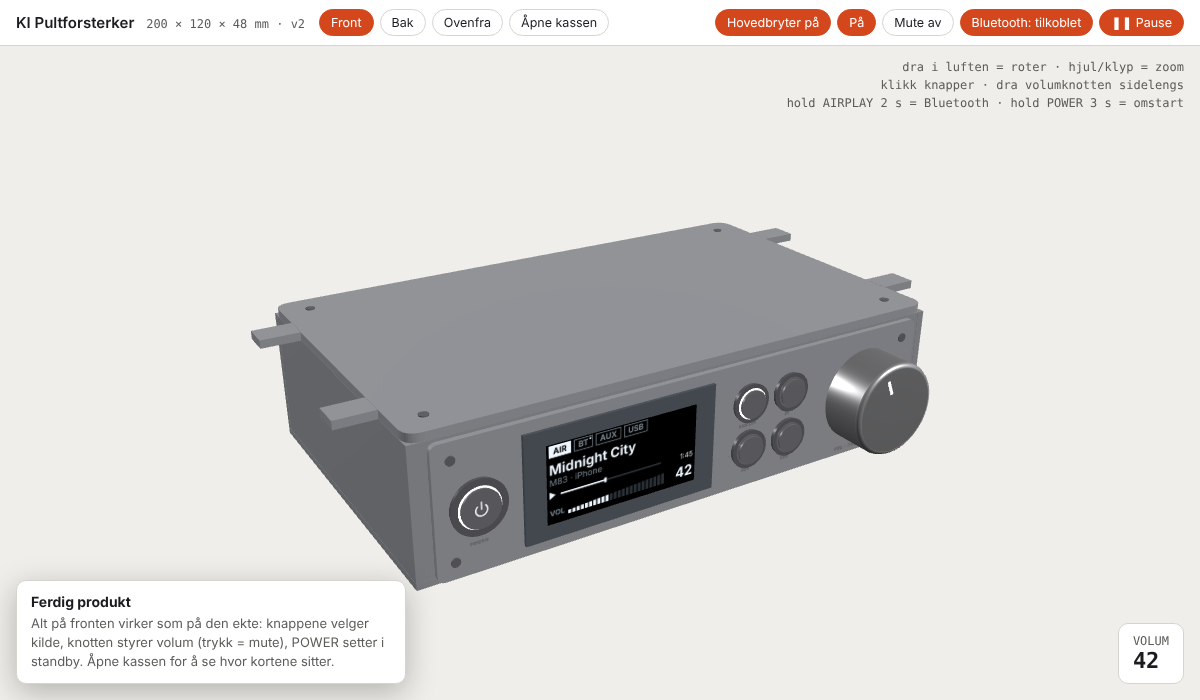
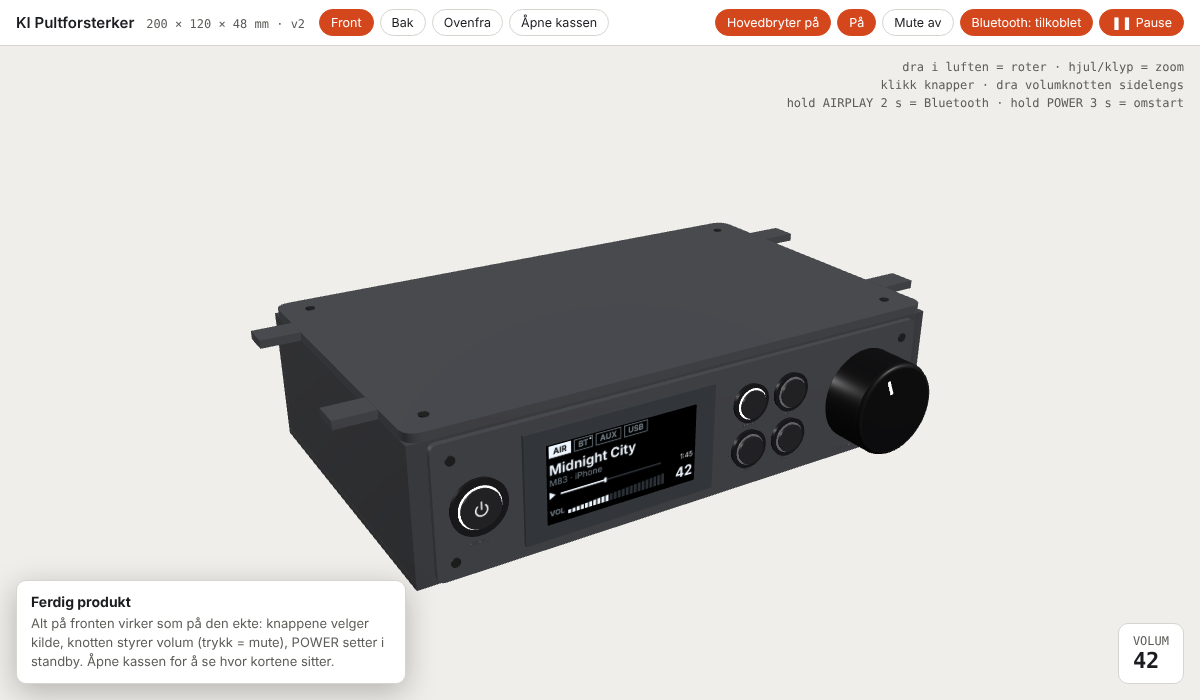
3D-visning: fargene gjengis i riktig sRGB (ekte antrasitt)
Claude-Session: https://claude.ai/code/session_01FaJKmYinw8SWRobKXBRYpt

Changed region(s): [[0.2158, 0.3, 0.8017, 0.84]]

diff --git a/3d-visning/index.html b/3d-visning/index.html
@@ -43,10 +43,10 @@ canvas{display:block;width:100%;height:100%;touch-action:none}
 const stage=document.getElementById('stage'), $=id=>document.getElementById(id);
 const renderer=new THREE.WebGLRenderer({antialias:true,alpha:true});renderer.setPixelRatio(Math.min(devicePixelRatio,2));renderer.outputEncoding=THREE.sRGBEncoding;stage.prepend(renderer.domElement);
 const scene=new THREE.Scene(), cam=new THREE.PerspectiveCamera(32,1,1,3000);
-scene.add(new THREE.HemisphereLight(0xffffff,0x3a3a3e,0.85));
-const key=new THREE.DirectionalLight(0xffffff,0.9);key.position.set(120,220,200);scene.add(key);
+scene.add(new THREE.HemisphereLight(0xffffff,0x3a3a3e,1.0));
+const key=new THREE.DirectionalLight(0xffffff,1.1);key.position.set(120,220,200);scene.add(key);
 const fill=new THREE.DirectionalLight(0xffffff,0.35);fill.position.set(-150,80,-220);scene.add(fill);
-const std=(c,r=0.7,m=0.1,extra={})=>new THREE.MeshStandardMaterial(Object.assign({color:c,roughness:r,metalness:m},extra));
+const std=(c,r=0.7,m=0.1,extra={})=>{const mt=new THREE.MeshStandardMaterial(Object.assign({color:c,roughness:r,metalness:m},extra));mt.color.convertSRGBToLinear();return mt;};
 const M={shell:std(0x2c2d30,0.75,0.1),plate:std(0x37383c,0.6,0.2),btn:std(0x1d1d20,0.28,0.45),cap:std(0x252528,0.35,0.4),
  acrylic:new THREE.MeshPhysicalMaterial({color:0x060708,roughness:0.12,metalness:0,opacity:0.92,transparent:true}),
  knob:std(0x18181a,0.3,0.7),alu:std(0xb8b8bc,0.35,0.8),gold:std(0xc9a227,0.35,0.9),red:std(0xa3261d,0.5,0.2),dark:std(0x141415,0.5,0.1),
